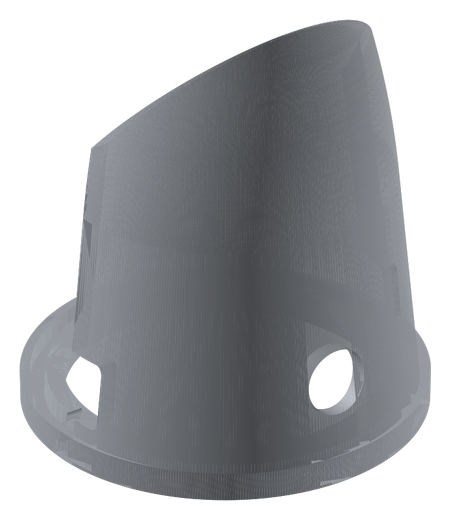
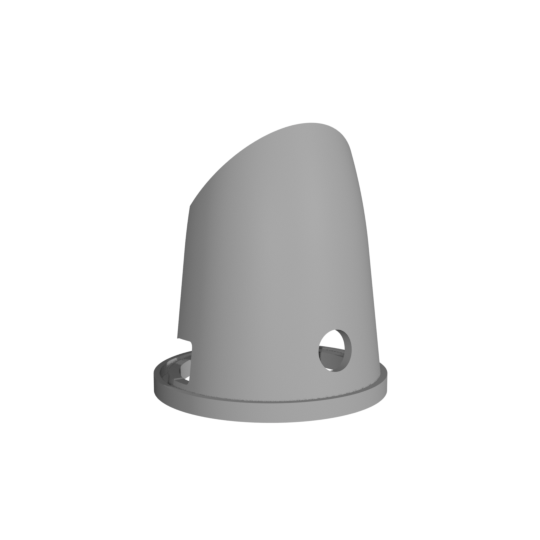
Use my own render of the forearm and drop the 3D viewer link

diff --git a/README.md b/README.md
@@ -118,10 +118,7 @@ flowchart LR
    and corrected dimensions.
 
 <p align="center">
-  <a href="hardware/forearm_v3.stl">
-    <img src="docs/forearm-v3-render.png" width="260" alt="3D render of the version 3 forearm: a slanted shell on a round base ring, with the button hole and a cutout for the wires.">
-  </a>
-  <br><sub>Version 3 model: <a href="hardware/forearm_v3.stl">open the STL</a> to rotate it in GitHub's 3D viewer</sub>
+  <img src="docs/forearm-v3-render.png" width="260" alt="3D render of the version 3 forearm: a slanted shell on a round base ring, with the button hole and a cutout for the wires.">
 </p>
 
 ## Credits and tools
